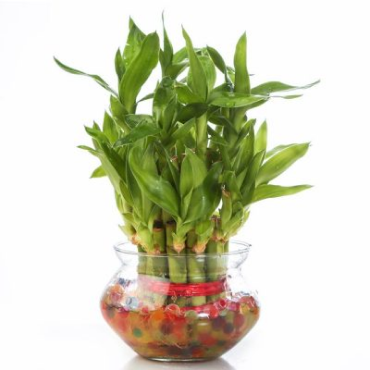
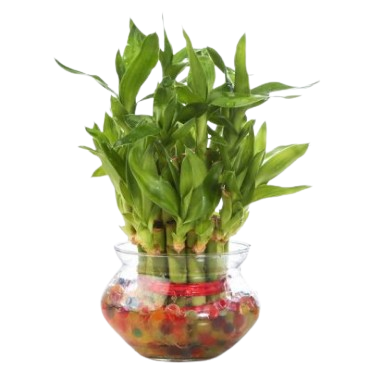
fix image

diff --git a/unit_07/hw07.html b/unit_07/hw07.html
@@ -102,7 +102,7 @@
       align-items: center;
       text-align: center;
       gap: 10px;
-      background-image: url('img/image0.png'); /*были поменены местами картинки, потому что цветок не прозрачный, но появилась рамка при ховере*/
+      background-image: url('img/Group1.png'); /*были поменены местами картинки, потому что цветок не прозрачный, но появилась рамка при ховере*/
       background-size: 370px 370px;
       background-position: center;
       background-repeat: no-repeat;
@@ -291,7 +291,7 @@
       <a href="https://www.google.com" class="ads">
         <span>Super Sale</span>
         <p>UP TO 75% OFF</p>
-        <img src="img/Group1.png" alt="ads">
+        <img src="img/image0.png" alt="ads">
       </a>
     </div>
 
